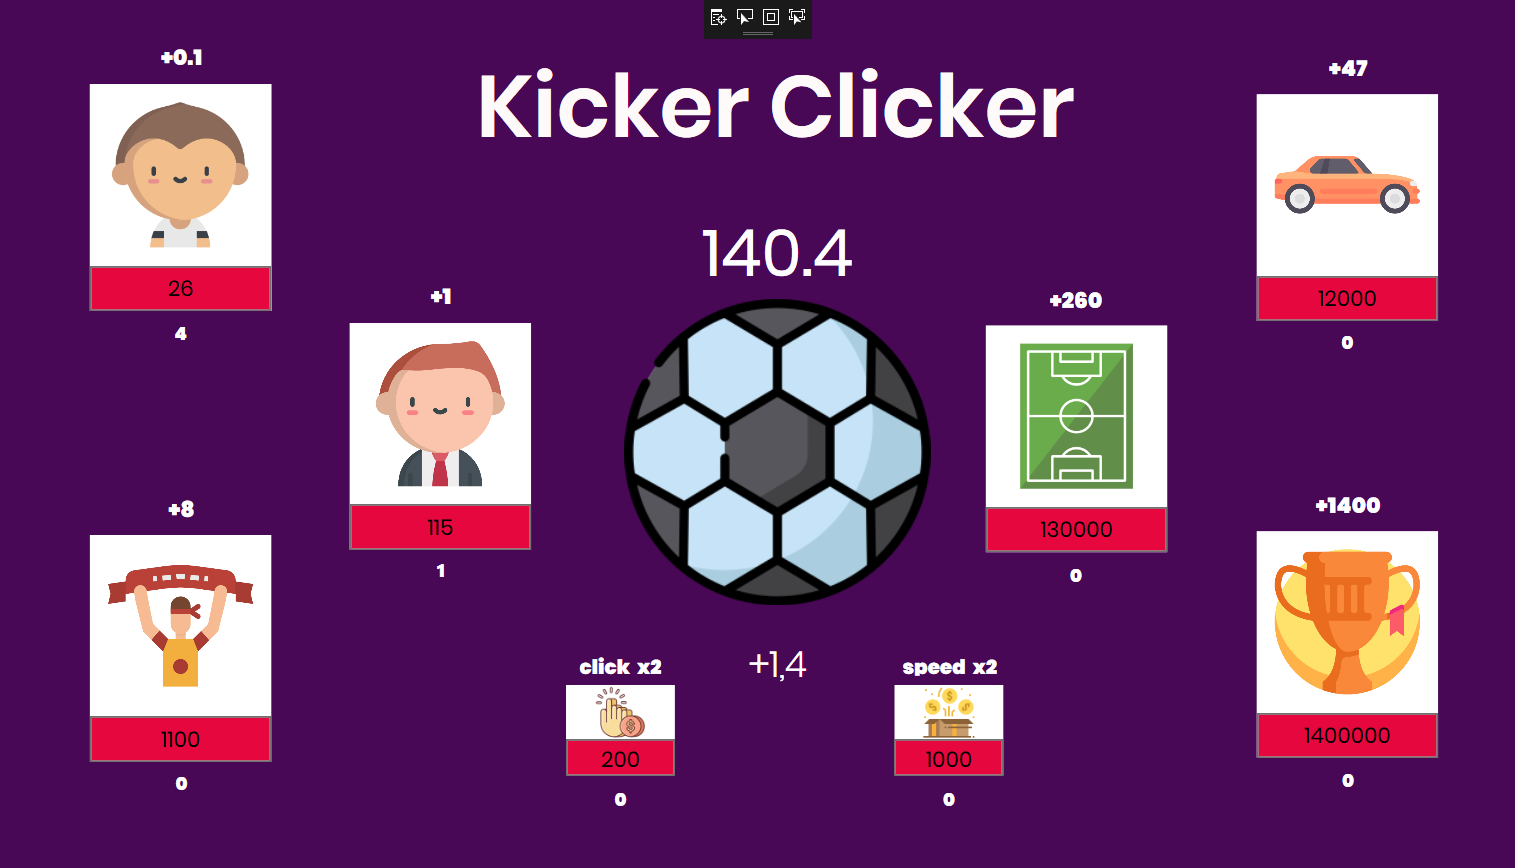
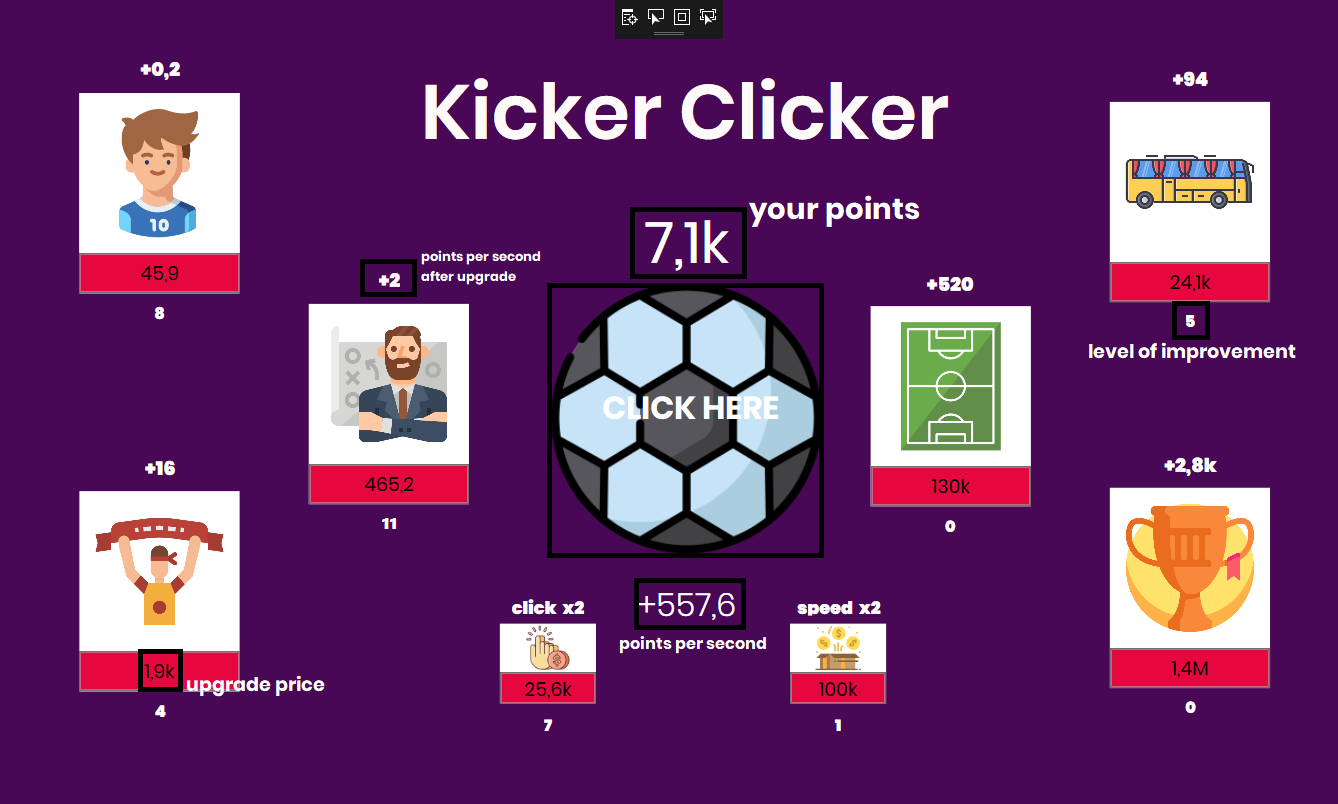
screen with details

diff --git a/WPF App/WPF App/Controller/UserController.cs b/WPF App/WPF App/Controller/UserController.cs
@@ -47,7 +47,7 @@ namespace WPF_App.Controller
                 View.UpgradeLevelLabel(6); // 6 -> DoubleClicker index 
                 DoubleClicker.Upgrade();
                 const int Digits = 1;
-                DoubleClicker.CurrentPrice = Math.Round(DoubleClicker.CurrentPrice * 4, Digits);
+                DoubleClicker.CurrentPrice = Math.Round(DoubleClicker.CurrentPrice * 2, Digits);
                 this.User.PointsPerClick = this.User.PointsPerClick * 2;
                 View.SetButtonText(DoubleClicker.CurrentPrice, 6); // 6 -> DoubleClicker index 
             }
@@ -62,7 +62,7 @@ namespace WPF_App.Controller
                 View.UpgradeLevelLabel(7); // 7 -> DoublePointer index 
                 DoublePointer.Upgrade();
                 const int Digits = 1;       
-                DoublePointer.CurrentPrice = Math.Round(DoublePointer.CurrentPrice * 10, Digits);
+                DoublePointer.CurrentPrice = Math.Round(DoublePointer.CurrentPrice * 100, Digits);
                 View.SetButtonText(DoublePointer.CurrentPrice, 7); // 7 -> DoublePointer index 
                 this.UpdateInfoLabels();
             }
